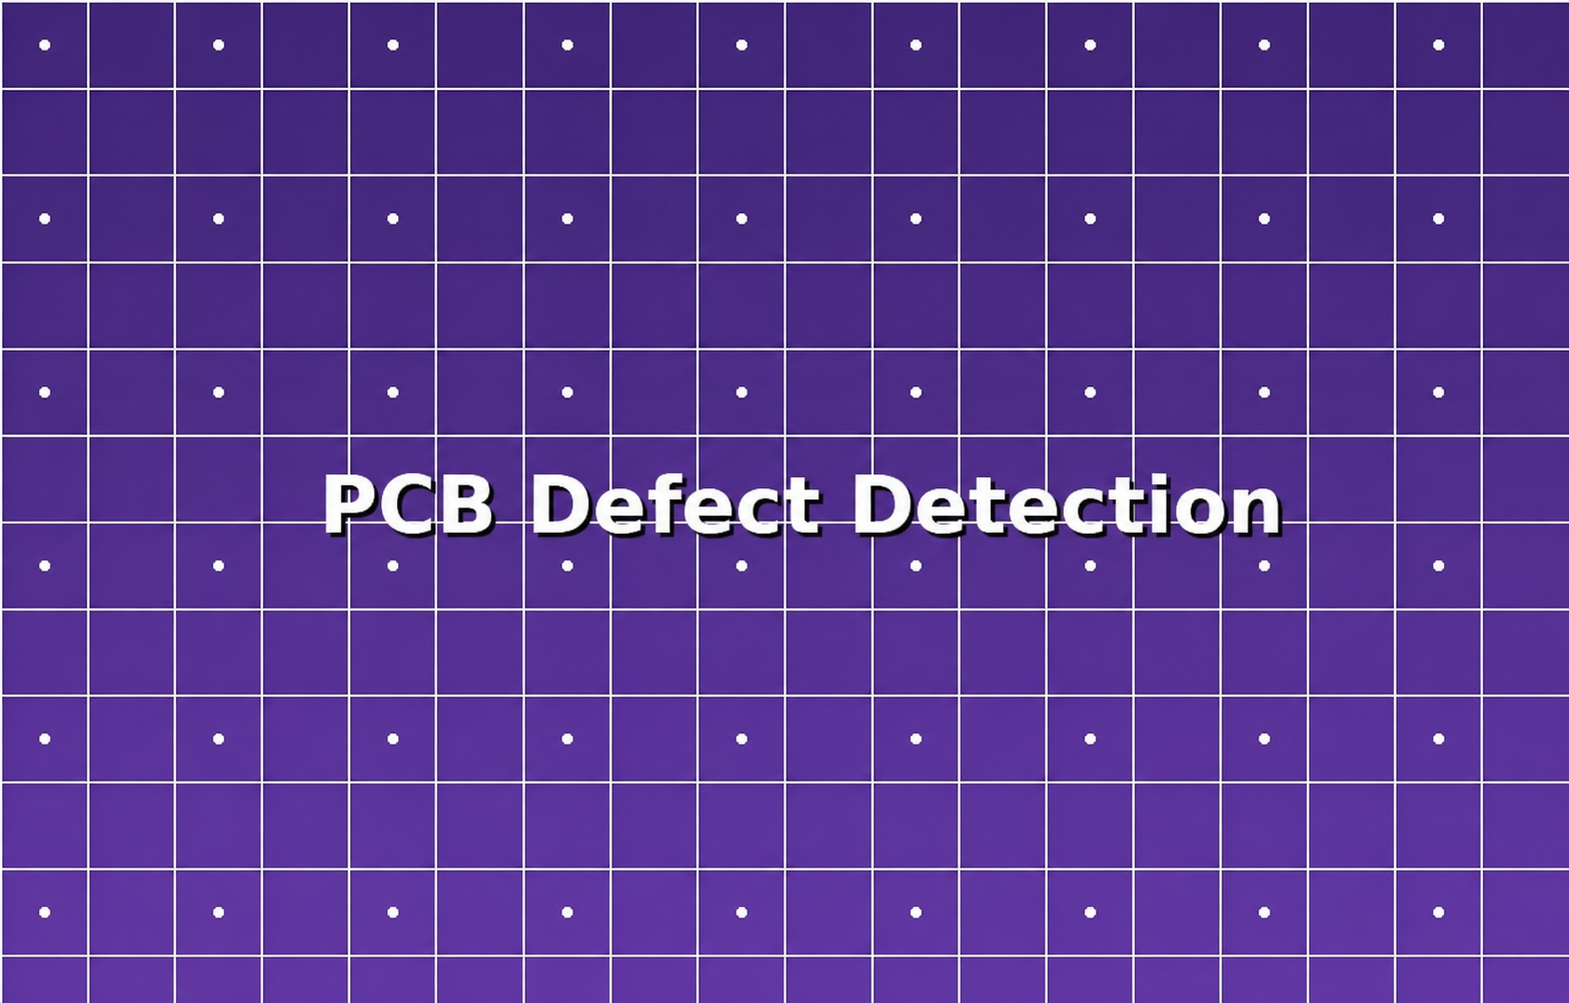
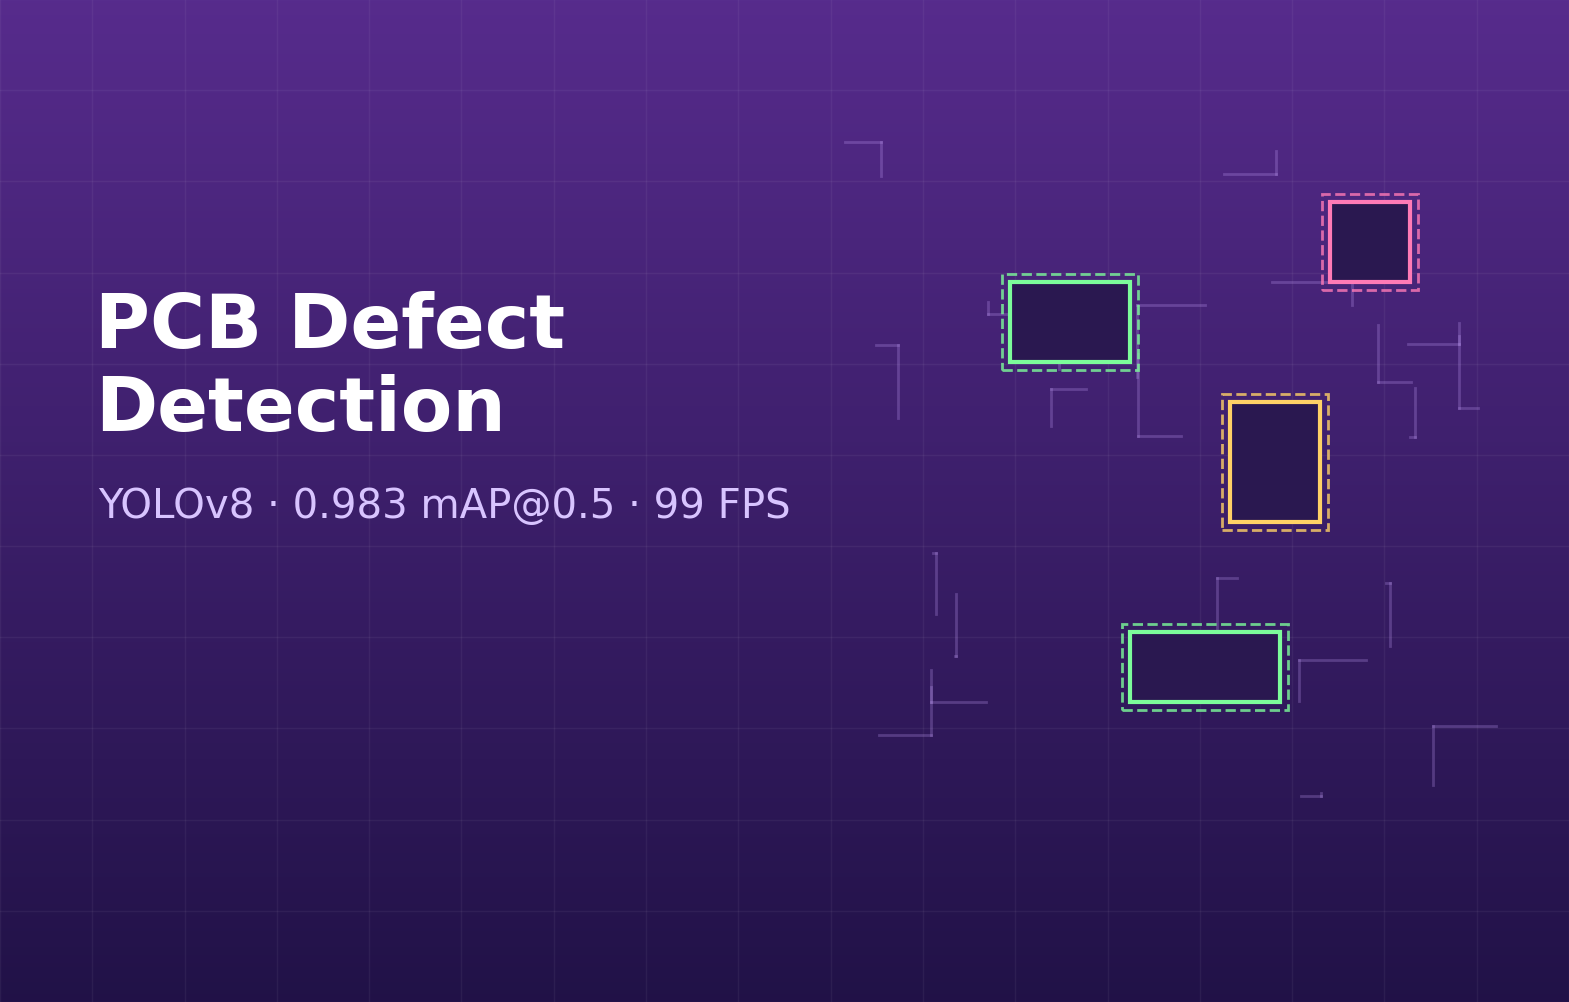
pneumonia-detection-cnn: switch to DenseNet-121, refresh card text and cover

diff --git a/src/constants/index.js b/src/constants/index.js
@@ -18,7 +18,11 @@ import {
   project_vision_scan,
   project_gradient_monitoring,
   project_ttml,
-  project_graph_slam,
+  project_pneumonia_cnn,
+  project_diabetic_retinopathy,
+  project_knn_digits,
+  project_naive_bayes,
+  project_ragnosis,
 } from "../assets";
 
 export const navLinks = [
@@ -142,7 +146,7 @@ const experiences = [
       "Neural Networks and Deep Learning: Wrote my first neural networks in plain NumPy before touching PyTorch. CNNs for images, RNNs for sequences, transformers once we got to attention. GANs at the end. Transfer learning was where things started to feel practical.",
       "Machine Vision: Image filtering, feature extraction, edge and corner detection, camera models, 2D/3D geometry, segmentation, optical flow, stereo vision, structure from motion. Final project was a YOLOv8 model for catching defects on circuit boards. Got it to 0.983 mAP on the DeepPCB benchmark.",
       "Natural Language Processing: Tokenization and embeddings up through transformer-based language models. Regex, n-grams, WordNet, HMMs, POS tagging, NER, sentiment, summarization, machine translation, question answering. Compared the classical statistical stuff against modern LLM approaches on the same tasks. Built with Python and spaCy.",
-      "AI & Robotics: Perception, sensors, actuators. SLAM, localization, mapping, navigation, path planning. PID control, filtering and estimation, reinforcement learning. Built in ROS. This is also where my Graph SLAM project lived.",
+      "AI & Robotics: Perception, sensors, actuators. SLAM, localization, mapping, navigation, path planning. PID control, filtering and estimation, reinforcement learning. Built in ROS.",
       "Data Warehousing and Mining: Linear and logistic regression, decision trees, hierarchical clustering, Naive Bayes, expectation-maximization, topic models. Final project was a Streamlit-based neural network visualizer (see GradientMonitoring below). Also got a brief intro to quantum ML at the end of the semester.",
       "Big Data Analytics: MapReduce, Hadoop, Apache Spark. SVMs and random forests at terabyte scale on commodity clusters. The point where you stop thinking about algorithms and start thinking about partitioning, shuffling, and what the network is doing.",
       "AI Ethics: When models meet the real world, things get messy. Worked through ethical frameworks, fairness metrics, interpretability tools like LIME and SHAP, data governance, privacy, informed consent, and case studies in hiring and lending. Finished CITI training in Biomedical, Behavioral, and AI Human Subject Protections.",
@@ -253,7 +257,7 @@ const projects = [
   {
     name: "Teaching Tools for Machine Learning (Capstone)",
     description:
-      "Web platform for visualizing how ML algorithms work. Capstone for AI 7993 at Kennesaw State, supervised by Prof. Arthur Choi.",
+      "Web platform for visualizing how ML algorithms work. Capstone for AI CS 7993 at Kennesaw State, supervised by Prof. Arthur Choi.",
     tags: [
       { name: "python", color: "blue-text-gradient" },
       { name: "react", color: "green-text-gradient" },
@@ -269,20 +273,88 @@ const projects = [
     },
   },
   {
-    name: "Graph SLAM with Modified Keyframe Tuning",
+    name: "Pneumonia Detection from Chest X-Rays",
     description:
-      "Forked the hdl_graph_slam ROS package and changed how keyframes are selected during 3D LIDAR mapping. Coursework dive into pose graph optimization, scan matching, and loop closure.",
+      "DenseNet-121 transfer learning to classify chest X-rays as normal or pneumonia, paired with a Streamlit app for live predictions. About 88% accuracy and 0.95 ROC-AUC, with balanced sensitivity and specificity.",
     tags: [
-      { name: "cpp", color: "blue-text-gradient" },
-      { name: "ros", color: "green-text-gradient" },
-      { name: "slam", color: "pink-text-gradient" },
+      { name: "tensorflow", color: "blue-text-gradient" },
+      { name: "transfer-learning", color: "green-text-gradient" },
+      { name: "medical-imaging", color: "pink-text-gradient" },
     ],
-    image: project_graph_slam,
-    source_code_link: "https://github.com/Kokou-Adje/CS7075-hdl-graph-slam",
+    image: project_pneumonia_cnn,
+    source_code_link: "https://github.com/Kokou-Adje/pneumonia-detection-cnn",
     details: {
-      methodology: "Built on the open-source hdl_graph_slam package (BSD-2-Clause). I changed the keyframe delta and angular thresholds, then studied how those choices affect map quality and loop closure. The pipeline runs four ROS nodelets: prefiltering and downsampling, scan-matching odometry between consecutive LIDAR frames, RANSAC floor-plane detection, and a pose graph optimizer that fuses odometry, loop closures, GPS, IMU, and floor planes. CS 7075 coursework.",
-      tools: ["C++", "ROS", "PCL", "g2o", "NDT/GICP scan matching", "Velodyne LIDAR"],
-      results: "Mapped the trade-off between dense keyframe sampling (accurate but slow) and sparse sampling (fast but drift-prone) on indoor and outdoor bag files. Pinned down a setting that holds up well in both regimes.",
+      methodology: "Started as a from-scratch CNN for the course, then upgraded to DenseNet-121 transfer learning, which performed far better on a small dataset. Images are 224x224 RGB run through DenseNet's preprocessing; the ImageNet-pretrained backbone acts as a feature extractor with a new classification head on top. Balanced class weights handle the dataset's imbalance (pneumonia outnumbers normal ~2.7 to 1) so the model doesn't ignore the rarer normal class. Trained with Adam, binary cross-entropy, early stopping, and a learning-rate scheduler. A Streamlit app loads the trained model for live predictions. DenseNet-121 was a deliberate choice: it's the same architecture as CheXNet, the radiologist-level pneumonia model.",
+      tools: ["Python", "TensorFlow", "Keras", "DenseNet-121", "scikit-learn", "Streamlit"],
+      results: "About 88% test accuracy and 0.95 ROC-AUC on the Kaggle Chest X-Ray dataset. Class weighting lifted normal-case recall from 0.55 (the original from-scratch CNN) to 0.81 while keeping pneumonia recall at 0.93 — a far more balanced, trustworthy classifier than the first version.",
+    },
+  },
+  {
+    name: "Diabetic Retinopathy Detection",
+    description:
+      "Fine-tuned a ResNet18 to detect diabetic retinopathy in retinal fundus images using transfer learning. Reaches 84.6% accuracy and 91.2% sensitivity on the held-out test set.",
+    tags: [
+      { name: "pytorch", color: "blue-text-gradient" },
+      { name: "transfer-learning", color: "green-text-gradient" },
+      { name: "medical-imaging", color: "pink-text-gradient" },
+    ],
+    image: project_diabetic_retinopathy,
+    source_code_link: "https://github.com/Kokou-Adje/diabetic-retinopathy-transfer-learning",
+    details: {
+      methodology: "Used transfer learning rather than training from scratch, since the dataset is small. Started from a ResNet18 pretrained on ImageNet, replaced the final layer with a 2-class head, and fine-tuned on retinal images from the IDRiD dataset (grade 0 as NonDR, grades 3-4 as DR). Images resized to 224x224, normalized with ImageNet statistics, with random horizontal flips for augmentation. Trained with SGD (lr 0.001, momentum 0.9), a step LR scheduler, and cross-entropy loss; kept the best-accuracy epoch. The code swaps in AlexNet, VGG16, or GoogLeNet by changing one list. Project for the graduate machine learning course.",
+      tools: ["Python", "PyTorch", "torchvision", "ResNet18", "scikit-learn", "Matplotlib"],
+      results: "84.6% accuracy, 91.2% sensitivity (recall on DR), and 77.4% specificity. The model catches most disease cases while being more cautious on healthy eyes, which is the right balance for a screening tool where a missed case is costlier than a false alarm.",
+    },
+  },
+  {
+    name: "Handwritten Digit Recognition (KNN)",
+    description:
+      "K-Nearest Neighbors built from scratch to recognize handwritten digits, with k chosen by cross-validation. 98.7% accuracy, matching scikit-learn on every test image.",
+    tags: [
+      { name: "python", color: "blue-text-gradient" },
+      { name: "knn", color: "green-text-gradient" },
+      { name: "computer-vision", color: "pink-text-gradient" },
+    ],
+    image: project_knn_digits,
+    source_code_link: "https://github.com/Kokou-Adje/knn-digit-recognition",
+    details: {
+      methodology: "Implemented KNN directly in NumPy: Euclidean distance from each test image to every training image, then a majority vote of the k nearest labels. Pixel values are scaled to [0,1] and the data is split 70/30 with stratification. Crucially, k is chosen by 5-fold cross-validation on the training set alone (testing k from 1 to 15), never touching the test set, so the reported accuracy is honest. The from-scratch model is then validated against scikit-learn's KNeighborsClassifier on the same split.",
+      tools: ["Python", "NumPy", "scikit-learn", "Matplotlib"],
+      results: "Cross-validation selected k=1, and the model scored 98.7% on the held-out test set (533 of 540 digits correct). The from-scratch and scikit-learn implementations agreed on 100% of test images, confirming the hand-written distance and voting logic is correct. The few misclassified digits are genuinely ambiguous.",
+    },
+  },
+  {
+    name: "Naive Bayes Cancer Classifier",
+    description:
+      "Gaussian Naive Bayes from scratch with 5-fold cross-validation and ROC analysis on the Wisconsin Breast Cancer dataset. Around 93% mean accuracy across folds.",
+    tags: [
+      { name: "python", color: "blue-text-gradient" },
+      { name: "naive-bayes", color: "green-text-gradient" },
+      { name: "machine-learning", color: "pink-text-gradient" },
+    ],
+    image: project_naive_bayes,
+    source_code_link: "https://github.com/Kokou-Adje/naive-bayes-breast-cancer",
+    details: {
+      methodology: "Modeled each feature as a Gaussian per class and combined the class prior with per-feature likelihoods using Bayes' theorem. Log-probabilities are summed rather than multiplying raw probabilities, since multiplying 30 small numbers underflows to zero. Evaluated two ways: a single stratified 70/30 split and 5-fold stratified cross-validation, the more honest estimate since every sample is tested exactly once. ROC analysis summarizes the sensitivity/specificity trade-off across thresholds.",
+      tools: ["Python", "NumPy", "scikit-learn", "Matplotlib"],
+      results: "94.0% accuracy on the holdout split and roughly 93.3% mean across the five folds (per-fold: 87.0, 95.1, 95.1, 94.3, 95.1%). The spread across folds is a reminder that a single train/test split can flatter or punish a model depending on which samples land where.",
+    },
+  },
+  {
+    name: "RAGnosis — Chest X-Ray Triage Assistant",
+    description:
+      "A chest X-ray triage assistant pairing a multi-label DenseNet-121 classifier with retrieval-augmented report generation grounded in ACR and Fleischner Society clinical guidelines. AUC 0.84 on NIH ChestX-ray14.",
+    tags: [
+      { name: "pytorch", color: "blue-text-gradient" },
+      { name: "rag", color: "green-text-gradient" },
+      { name: "medical-imaging", color: "pink-text-gradient" },
+    ],
+    image: project_ragnosis,
+    source_code_link: "https://github.com/Kokou-Adje/ragnosis",
+    details: {
+      methodology: "Two components working together. First, a multi-label DenseNet-121 classifies findings across the NIH ChestX-ray14 dataset, where a single image can carry several conditions at once. Second, the classifier's outputs drive a retrieval-augmented generation pipeline that drafts a structured triage report, retrieving relevant passages from ACR Appropriateness Criteria and Fleischner Society guidelines so recommendations are grounded in real clinical sources rather than free-form model output.",
+      tools: ["Python", "PyTorch", "DenseNet-121", "Retrieval-Augmented Generation", "Vector database", "LLM"],
+      results: "AUC 0.84 across multi-label findings on NIH ChestX-ray14. Pairing the classifier with guideline-grounded retrieval keeps the generated reports tied to recognized clinical standards, which is the difference between a model that predicts and an assistant a clinician could actually reason with.",
     },
   },
 ];

diff --git a/src/assets/index.js b/src/assets/index.js
@@ -28,7 +28,11 @@ import project from "./company/project.svg";
 import project_vision_scan from "./project1_pcb_detection.png";
 import project_gradient_monitoring from "./project2_Neural_Network_Visualizer.png";
 import project_ttml from "./project3_ml_teaching_tool.png";
-import project_graph_slam from "./project4_3d_lidar_mapping.png";
+import project_pneumonia_cnn from "./project5_pneumonia_cnn.png";
+import project_diabetic_retinopathy from "./project6_diabetic_retinopathy.png";
+import project_knn_digits from "./project7_knn_digits.png";
+import project_naive_bayes from "./project8_naive_bayes.png";
+import project_ragnosis from "./project9_ragnosis.png";
 
 export {
   logo,
@@ -55,5 +59,9 @@ export {
   project_vision_scan,
   project_gradient_monitoring,
   project_ttml,
-  project_graph_slam,
+  project_pneumonia_cnn,
+  project_diabetic_retinopathy,
+  project_knn_digits,
+  project_naive_bayes,
+  project_ragnosis,
 };

diff --git a/src/components/Works.jsx b/src/components/Works.jsx
@@ -214,8 +214,9 @@ const Works = () => {
           variants={fadeIn("", "", 0.1, 1)}
           className='mt-3 text-secondary text-[17px] max-w-3xl leading-[30px]'
         >
-          Some projects across computer vision, deep learning, and robotics.
-          Click any card for methodology, tools, and results.
+          Eight projects across computer vision, medical imaging, deep
+          learning, and applied ML. Click any card for methodology, tools, and
+          results.
         </motion.p>
       </div>
 